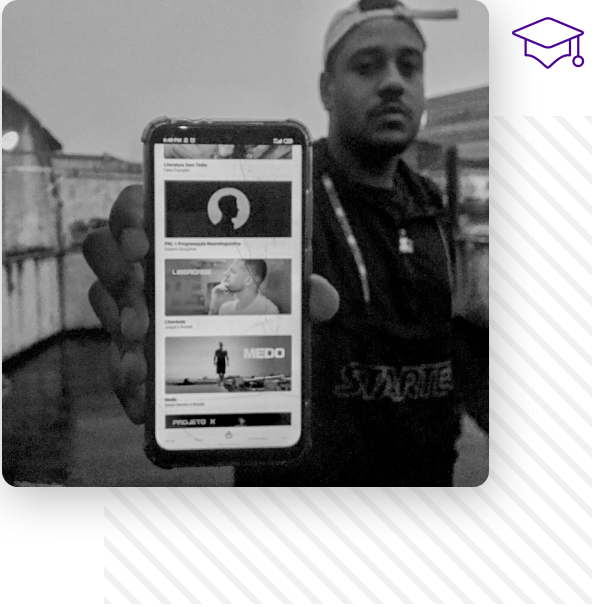
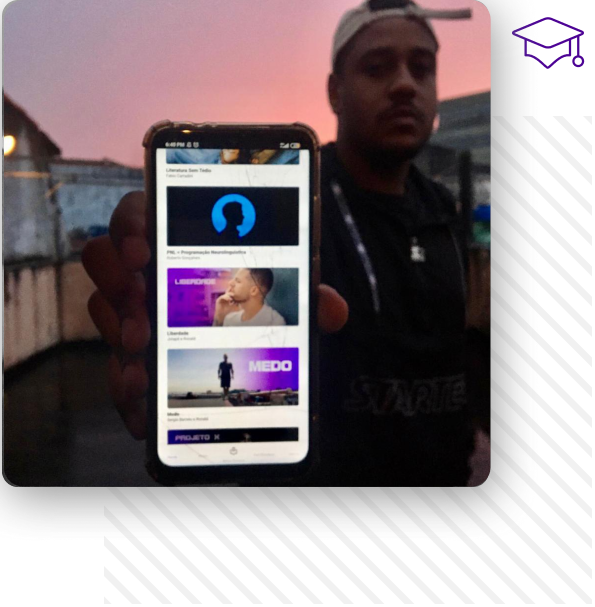
feat: implement impovements in video and spaces

diff --git a/components/organisms/about-us/style.js b/components/organisms/about-us/style.js
@@ -11,7 +11,7 @@ export const Container = styled.div`
 `;
 
 export const Flex = styled.div`
-  width: 100%;
+  width: 75%;
   padding: 5%;
   display: flex;
   justify-content: space-around;
@@ -29,6 +29,14 @@ export const Image = styled.img`
   position: relative;
   width: 487px;
   height: 487px;
+  filter: grayscale(100%);
+  transition: .2s ease-out;
+
+
+  &:hover {
+    transition: .2s ease-in;
+    filter: none;
+  }
 `;
 
 export const Icon = styled.img`
@@ -46,7 +54,7 @@ export const Background = styled.img`
 `;
 
 export const Description = styled.div`
-  width: 25%;
+  width: 40%;
   height: 50%;
   display: flex;
   flex-direction: column;
@@ -82,12 +90,12 @@ export const Button = styled.button`
   text-transform: uppercase;
   font-weight: bold;
   font-size: 14px;
-  transition: background-color 0.1s ease-out;
+  transition: background-color 0.2s ease-out;
 
   &:hover {
     background-color: ${COLORS.primary};
     color: ${COLORS.white};
     cursor: pointer;
-    transition: background-color 0.1s ease-in;
+    transition: background-color 0.2s ease-in;
   }
 `;

diff --git a/components/organisms/presentation/style.js b/components/organisms/presentation/style.js
@@ -12,7 +12,7 @@ export const Container = styled.div`
 `;
 
 export const Section = styled.div`
-  margin: 0 2%;
+  margin: 0 4%;
   height: 100%;
   display: flex;
   flex-direction: column;
@@ -32,13 +32,14 @@ export const Title = styled.h2`
   color: ${COLORS.primary};
   font-weight: 800;
   font-size: 47px;
-  margin-bottom: 0;
+  margin-bottom: 48px;
   margin-top: 0;
 `;
 
 export const Text = styled.p`
   font-weight: 400;
   font-size: 18px;
+  line-height: 27px;
 `;
 
 export const Message = styled.p`
@@ -48,7 +49,7 @@ export const Message = styled.p`
 `;
 
 export const Video = styled.video`
-  width: 70ch;
+  width: 75ch;
   position: relative;
   outline: none;
   border-radius: 10px;

diff --git a/components/organisms/presentation/index.js b/components/organisms/presentation/index.js
@@ -1,5 +1,6 @@
 import React from "react";
 import { Container, Section, Title, Text, Message, Video, Button } from "./style";
+import VideoThumbnail from 'react-video-thumbnail'; // use npm published version
 
 import Image from "next/image";
 export default function MenuComponent(_) {
@@ -28,9 +29,6 @@ export default function MenuComponent(_) {
         <Video controls id="video">
           <source src="video-movimento-home.mp4" />
         </Video>
-        {/* <Button >
-          <Image width="103" height="101" src="/play.png" />
-        </Button> */}
       </Section>
     </Container>
   );

diff --git a/components/organisms/believe-us/style.js b/components/organisms/believe-us/style.js
@@ -3,7 +3,7 @@ import { COLORS } from "../../../styles/colors";
 
 export const Container = styled.div`
   width: 100%;
-  height: 80vh;
+  height: 70vh;
   background-color: ${COLORS.light_gray};
   display: flex;
   flex-direction: column;
@@ -22,8 +22,8 @@ export const Partners = styled.div`
   flex-wrap: wrap;
 `;
 export const Image = styled.img`
-  height: 80px ;
-  margin-bottom: 5%;
+  height: 65px ;
+  margin-bottom: 4%;
 `;
 
 export const Title = styled.h1`

diff --git a/styles/globals.css b/styles/globals.css
@@ -1,9 +1,14 @@
+@import url('https://fonts.googleapis.com/css2?family=Montserrat:ital,wght@0,100;0,200;0,300;0,400;0,600;0,700;0,800;1,100;1,200;1,300;1,400;1,500;1,600;1,800;1,900&display=swap');
+
 html,
 body {
   padding: 0;
   margin: 0;
   font-family: -apple-system, BlinkMacSystemFont, Segoe UI, Roboto, Oxygen,
     Ubuntu, Cantarell, Fira Sans, Droid Sans, Helvetica Neue, sans-serif;
+}
+h1, h2, h3, h3, h5, h6 {
+  font-family: 'Montserrat';
 }
 
 a {

diff --git a/components/organisms/footer/style.js b/components/organisms/footer/style.js
@@ -23,7 +23,7 @@ export const Section = styled.div`
 
 export const Politics = styled.div`
   display: flex;
-  grid-gap: 5%;
+  grid-gap: 2%;
   width: 80%;
 `;
 
@@ -43,7 +43,7 @@ export const SocialMedias = styled.div`
   display: flex;
   justify-content: space-around;
   align-items: center;
-  width: 20%;
+  width: 15%;
 `;
 
 export const Logo = styled.div`

diff --git a/components/organisms/about-us/index.js b/components/organisms/about-us/index.js
@@ -39,7 +39,7 @@ export default function AboutUs() {
           <Button>Saiba mais</Button>
         </Description>
         <Card>
-          <Image style={{ marginLeft: "45%" }}  src="gray/pack2.png" />
+          <Image style={{ marginLeft: "10%" }}  src="gray/pack2.png" />
         </Card>
       </Flex>
 
